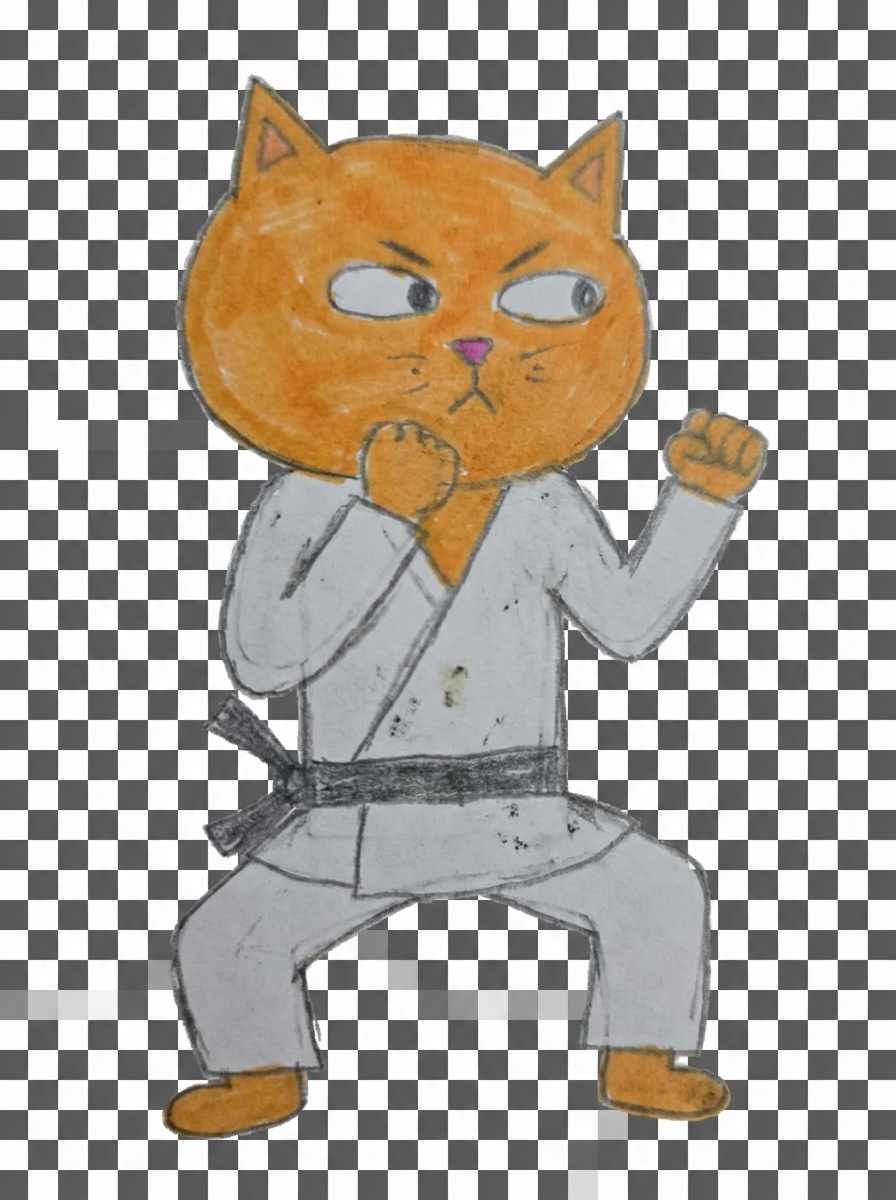
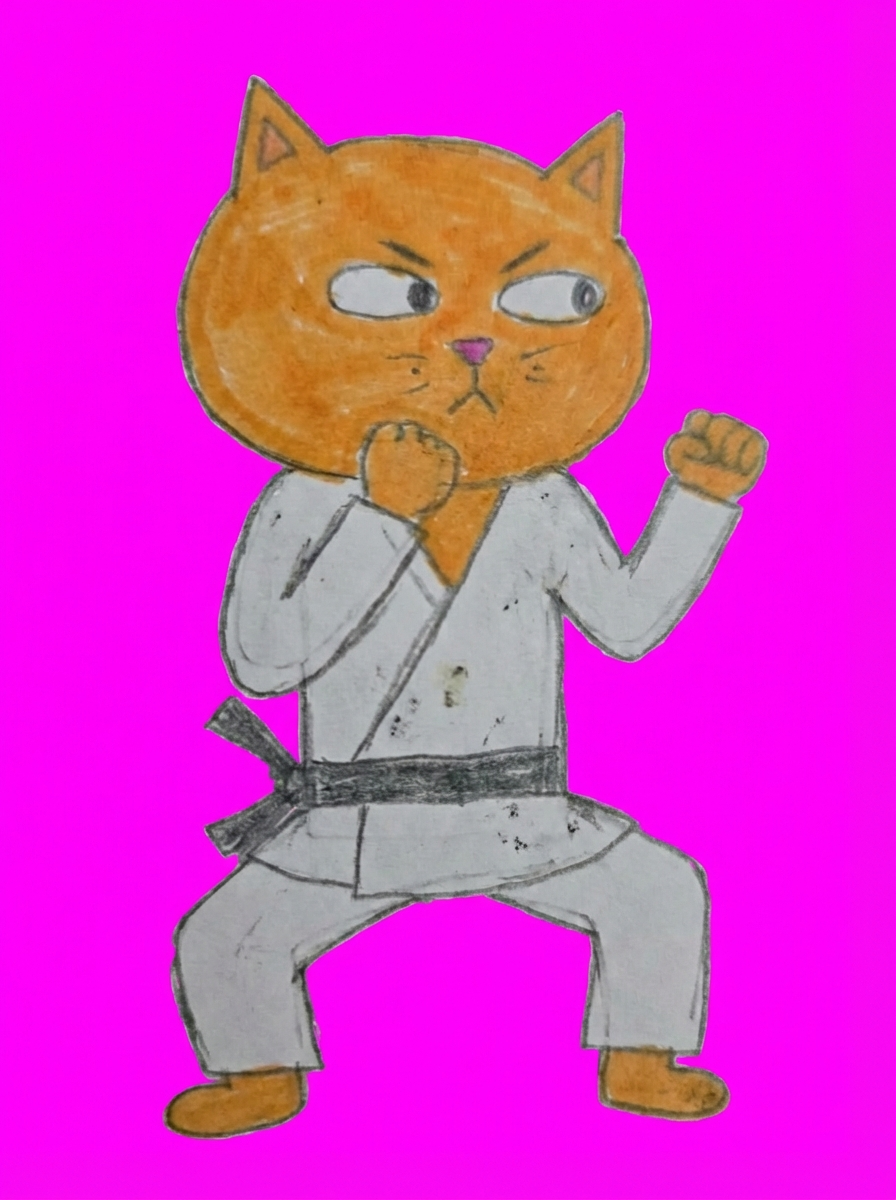
Rename to Bebe Kiosque VS Sicou, bigger characters, magenta bg prompts
- Rename game title and player names (BB. Kiosque, Sicou)
- Switch asset prompts from green to magenta (#FF00FF) background
- Add green2alpha.py script for chroma key background removal
- Increase character size to 180x300 and adjust ground position
- Add player1 sprites (idle, walk, punch) and their transparent versions

diff --git a/index.html b/index.html
@@ -3,7 +3,7 @@
 <head>
 <meta charset="UTF-8">
 <meta name="viewport" content="width=device-width, initial-scale=1.0">
-<title>Street Fighter</title>
+<title>Bebe Kiosque VS Sicou</title>
 <style>
   * { margin: 0; padding: 0; box-sizing: border-box; }
   body { background: #000; display: flex; justify-content: center; align-items: center; height: 100vh; overflow: hidden; }
@@ -18,7 +18,7 @@
 // ============================================================
 const CONFIG = {
   MOVE_SPEED: 5,
-  GROUND_Y: 500,
+  GROUND_Y: 400,
   STAGE_LEFT: 40,
   STAGE_RIGHT: 1240,
   PUSH_BACK: 8,
@@ -546,8 +546,8 @@ function createFighter(playerNum, startX, facingRight) {
     playerNum,
     x: startX,
     y: CONFIG.GROUND_Y,
-    width: 120,
-    height: 200,
+    width: 180,
+    height: 300,
     facingRight,
     vy: 0,
     groundY: CONFIG.GROUND_Y,
@@ -1141,9 +1141,9 @@ function drawHUD() {
   ctx.fillStyle = '#fff';
   ctx.font = 'bold 18px monospace';
   ctx.textAlign = 'left';
-  ctx.fillText('PLAYER 1', BAR_MARGIN, BAR_Y - 8);
+  ctx.fillText('BB. KIOSQUE', BAR_MARGIN, BAR_Y - 8);
   ctx.textAlign = 'right';
-  ctx.fillText('PLAYER 2', W - BAR_MARGIN, BAR_Y - 8);
+  ctx.fillText('SICOU', W - BAR_MARGIN, BAR_Y - 8);
 
   // Health bars
   drawHealthBar(BAR_MARGIN, BAR_Y, BAR_W, BAR_H, p1.health, p1.maxHealth, '#e74c3c', false);
@@ -1214,17 +1214,17 @@ function checkRoundEnd() {
     resultText = 'DOUBLE KO';
     winner = 'draw';
   } else if (p1.health <= 0) {
-    resultText = 'PLAYER 2 WINS';
+    resultText = 'SICOU WINS';
     winner = 'p2';
   } else if (p2.health <= 0) {
-    resultText = 'PLAYER 1 WINS';
+    resultText = 'BB. KIOSQUE WINS';
     winner = 'p1';
   } else if (roundTimer <= 0) {
     if (p1.health > p2.health) {
-      resultText = 'TIME — PLAYER 1 WINS';
+      resultText = 'TIME — BB. KIOSQUE WINS';
       winner = 'p1';
     } else if (p2.health > p1.health) {
-      resultText = 'TIME — PLAYER 2 WINS';
+      resultText = 'TIME — SICOU WINS';
       winner = 'p2';
     } else {
       resultText = 'TIME — DRAW';
@@ -1255,7 +1255,7 @@ function startNextRound() {
   if (p1Wins >= CONFIG.ROUNDS_TO_WIN || p2Wins >= CONFIG.ROUNDS_TO_WIN) {
     stopBGM();
     gameState = 'matchEnd';
-    resultText = p1Wins >= CONFIG.ROUNDS_TO_WIN ? 'PLAYER 1 WINS THE MATCH!' : 'PLAYER 2 WINS THE MATCH!';
+    resultText = p1Wins >= CONFIG.ROUNDS_TO_WIN ? 'BB. KIOSQUE WINS THE MATCH!' : 'SICOU WINS THE MATCH!';
     resultTimer = 0;
   } else {
     startNewRound();
@@ -1273,7 +1273,7 @@ function drawTitleScreen() {
   ctx.fillStyle = '#e74c3c';
   ctx.font = 'bold 72px monospace';
   ctx.textAlign = 'center';
-  ctx.fillText('STREET FIGHTER', W / 2, 200);
+  ctx.fillText('BEBE KIOSQUE VS SICOU', W / 2, 200);
 
   // Subtitle
   ctx.fillStyle = '#f1c40f';
@@ -1293,7 +1293,7 @@ function drawTitleScreen() {
   const lh = 28;
 
   ctx.fillStyle = '#e74c3c';
-  ctx.fillText('PLAYER 1', col1, controlsY + 40);
+  ctx.fillText('BB. KIOSQUE', col1, controlsY + 40);
   ctx.fillStyle = '#ccc';
   ctx.fillText('A / D       Move', col1, controlsY + 40 + lh);
   ctx.fillText('W           Jump', col1, controlsY + 40 + lh * 2);
@@ -1303,7 +1303,7 @@ function drawTitleScreen() {
   ctx.fillText('S           Block', col1, controlsY + 40 + lh * 6);
 
   ctx.fillStyle = '#3498db';
-  ctx.fillText('PLAYER 2', col2, controlsY + 40);
+  ctx.fillText('SICOU', col2, controlsY + 40);
   ctx.fillStyle = '#ccc';
   ctx.fillText('← / →       Move', col2, controlsY + 40 + lh);
   ctx.fillText('↑            Jump', col2, controlsY + 40 + lh * 2);

diff --git a/green2alpha.py b/green2alpha.py
@@ -1,0 +1,67 @@
+#!/usr/bin/env python3
+"""Convert green-screen PNGs to transparent PNGs.
+
+Usage: python green2alpha.py <folder> [--suffix _trans] [--tolerance 80]
+"""
+
+import argparse
+import os
+import sys
+from pathlib import Path
+
+try:
+    from PIL import Image
+except ImportError:
+    print("Pillow is required: pip install Pillow")
+    sys.exit(1)
+
+
+def remove_green(img_path, out_path, tolerance):
+    img = Image.open(img_path).convert("RGBA")
+    pixels = img.load()
+    w, h = img.size
+
+    # Sample top-left corner to detect the actual background color
+    bg_r, bg_g, bg_b, _ = pixels[0, 0]
+    print(f"  Detected background color: ({bg_r}, {bg_g}, {bg_b})")
+
+    for y in range(h):
+        for x in range(w):
+            r, g, b, a = pixels[x, y]
+            if (abs(r - bg_r) < tolerance and
+                abs(g - bg_g) < tolerance and
+                abs(b - bg_b) < tolerance):
+                pixels[x, y] = (0, 0, 0, 0)
+
+    img.save(out_path, "PNG")
+
+
+def main():
+    parser = argparse.ArgumentParser(description="Convert green-screen PNGs to transparent PNGs.")
+    parser.add_argument("folder", help="Folder containing PNG files (searched recursively)")
+    parser.add_argument("--suffix", default="_trans", help="Suffix added before .png (default: _trans)")
+    parser.add_argument("--tolerance", type=int, default=80, help="Color tolerance 0-255 (default: 80)")
+    args = parser.parse_args()
+
+    folder = Path(args.folder)
+    if not folder.is_dir():
+        print(f"Error: {folder} is not a directory")
+        sys.exit(1)
+
+    pngs = list(folder.rglob("*.png"))
+    if not pngs:
+        print(f"No PNG files found in {folder}")
+        sys.exit(1)
+
+    for p in pngs:
+        if args.suffix in p.stem:
+            continue
+        out = p.with_stem(p.stem + args.suffix)
+        print(f"{p} -> {out}")
+        remove_green(p, out, args.tolerance)
+
+    print(f"Done. Processed {len(pngs)} files.")
+
+
+if __name__ == "__main__":
+    main()

diff --git a/asset-prompts.md b/asset-prompts.md
@@ -1,7 +1,9 @@
 # Asset Prompts for Nano Banana
 
-All sprites should be PNG with transparent background unless noted.
+All sprites should be PNG with a background with a pure plain magenta (#FF00FF).
 Keep the child's pencil-drawn style from the base image, but make the pose more aggressive and exaggerated — while staying goofy and funny.
+
+**Important**: Player 1 stands on the left side of the screen and faces to the right. Player 2 stands on the right side of the screen and faces to the left. All sprite prompts reflect this orientation.
 
 ---
 
@@ -14,77 +16,77 @@ Keep the child's pencil-drawn style from the base image, but make the pose more 
 
 ## Player 1 Sprites (120x200 each)
 
-Base: use the Player 1 child drawing as reference. Keep the wobbly pencil lines, crayon coloring, and goofy proportions. Make each pose more aggressive but still hilarious.
+Base: use the Player 1 child drawing as reference. Keep the wobbly pencil lines, crayon coloring, and goofy proportions. Make each pose more aggressive but still hilarious. Player 1 faces to the right.
 
 **`assets/player1/idle.png`**
-> The character standing in a fighting-ready stance, fists loosely raised, knees slightly bent. Wobbly pencil-drawn style like a kid's sketchbook. Exaggerated big head, tiny determined eyes. Looks tough but adorable. Transparent background, 120x200px.
+> A whimsical character depicted in a fighting-ready stance, with fists loosely raised and knees slightly bent. The character has an exaggeratedly large head and tiny, determined eyes that convey a blend of toughness and adorability. The style resembles a wobbly pencil drawing, reminiscent of a child's sketchbook, showcasing playful imperfections. The character gazes to the right, ready to face their opponent. The background is a pure plain magenta (#FF00FF), and the overall image dimensions are 120x200px.
 
 **`assets/player1/walk.png`**
-> The character mid-stride, one leg forward, arms swinging. Pencil-drawn kid style. Comically wide step like they're stomping toward the opponent. Angry little eyebrows but a silly expression. Transparent background, 120x200px.
+> A whimsical character depicted mid-stride, one leg forward and arms swinging, taking a comically wide step as if stomping toward the opponent. The character has an exaggeratedly large head with angry little eyebrows but a silly expression. The style resembles a wobbly pencil drawing, reminiscent of a child's sketchbook, showcasing playful imperfections. The character faces to the right, marching forward with determination. The background is a pure plain magenta (#FF00FF), and the overall image dimensions are 120x200px.
 
 **`assets/player1/punch.png`**
-> The character throwing a big exaggerated punch forward with their right arm fully extended. Pencil-drawn kid style. The fist is comically oversized. Face scrunched up with effort. Motion lines around the fist. Transparent background, 120x200px.
+> A whimsical character depicted throwing a big exaggerated punch forward with their right arm fully extended to the right. The fist is comically oversized, with the face scrunched up with effort and motion lines around the fist. The style resembles a wobbly pencil drawing, reminiscent of a child's sketchbook, showcasing playful imperfections. The character faces to the right, punching toward their opponent. The background is a pure plain magenta (#FF00FF), and the overall image dimensions are 120x200px.
 
 **`assets/player1/close-punch.png`**
-> The character throwing a short sharp elbow strike, arm bent close to the body. Pencil-drawn kid style. Elbow pointy and exaggerated. Gritted teeth, one eye squinting. A close-range scrappy brawler look. Transparent background, 120x200px.
+> A whimsical character depicted throwing a short sharp elbow strike, arm bent close to the body. The elbow is pointy and exaggerated, with gritted teeth and one eye squinting in a close-range scrappy brawler look. The style resembles a wobbly pencil drawing, reminiscent of a child's sketchbook, showcasing playful imperfections. The character faces to the right, striking toward their opponent. The background is a pure plain magenta (#FF00FF), and the overall image dimensions are 120x200px.
 
 **`assets/player1/kick.png`**
-> The character doing a big side kick, one leg extended high. Pencil-drawn kid style. The kicking foot is comically huge. The character is leaning back for balance with a wild grin. Motion lines around the foot. Transparent background, 120x200px.
+> A whimsical character depicted doing a big side kick, one leg extended high to the right. The kicking foot is comically huge, and the character is leaning back for balance with a wild grin. Motion lines surround the foot. The style resembles a wobbly pencil drawing, reminiscent of a child's sketchbook, showcasing playful imperfections. The character faces to the right, kicking toward their opponent. The background is a pure plain magenta (#FF00FF), and the overall image dimensions are 120x200px.
 
 **`assets/player1/fireball-pose.png`**
-> The character with both hands pushed forward, palms out, launching energy. Pencil-drawn kid style. Intense wobbly concentration face. Little sweat drops flying off. Arms stretched forward dramatically. Transparent background, 120x200px.
+> A whimsical character depicted with both hands pushed forward to the right, palms out, launching energy. The face shows intense wobbly concentration with little sweat drops flying off and arms stretched forward dramatically. The style resembles a wobbly pencil drawing, reminiscent of a child's sketchbook, showcasing playful imperfections. The character faces to the right, channeling power toward their opponent. The background is a pure plain magenta (#FF00FF), and the overall image dimensions are 120x200px.
 
 **`assets/player1/hit.png`**
-> The character recoiling from getting hit, head snapped back, body leaning away. Pencil-drawn kid style. Eyes popping out comically, mouth wide open in surprise. Little stars or spirals around the head. Transparent background, 120x200px.
+> A whimsical character depicted recoiling from getting hit, head snapped back to the left, body leaning away. Eyes are popping out comically, mouth wide open in surprise, with little stars or spirals around the head. The style resembles a wobbly pencil drawing, reminiscent of a child's sketchbook, showcasing playful imperfections. The character faces to the right but is knocked backward by the impact. The background is a pure plain magenta (#FF00FF), and the overall image dimensions are 120x200px.
 
 **`assets/player1/block.png`**
-> The character in a defensive stance, both arms crossed in front of their face. Pencil-drawn kid style. Peeking over their arms with one nervous eye. Knees bent, bracing for impact. Transparent background, 120x200px.
+> A whimsical character depicted in a defensive stance, both arms crossed in front of their face, peeking over their arms with one nervous eye. Knees bent, bracing for impact. The style resembles a wobbly pencil drawing, reminiscent of a child's sketchbook, showcasing playful imperfections. The character faces to the right, shielding against their opponent's attack. The background is a pure plain magenta (#FF00FF), and the overall image dimensions are 120x200px.
 
 **`assets/player1/victory.png`**
-> The character celebrating with both arms raised high in the air. Pencil-drawn kid style. Huge open-mouth grin, eyes closed with joy. Maybe a little victory crown or stars doodled around them. Transparent background, 120x200px.
+> A whimsical character depicted celebrating with both arms raised high in the air, with a huge open-mouth grin and eyes closed with joy. A little victory crown or stars are doodled around them. The style resembles a wobbly pencil drawing, reminiscent of a child's sketchbook, showcasing playful imperfections. The character faces to the right, triumphant after defeating their opponent. The background is a pure plain magenta (#FF00FF), and the overall image dimensions are 120x200px.
 
 ---
 
 ## Player 2 Sprites (120x200 each)
 
-Base: use the Player 2 child drawing as reference. Same wobbly pencil-drawn style but this character should feel visually distinct from Player 1 — different outfit scribbles, different hair, different vibe. Still aggressive yet funny.
+Base: use the Player 2 child drawing as reference. Same wobbly pencil-drawn style but this character should feel visually distinct from Player 1 — different outfit scribbles, different hair, different vibe. Still aggressive yet funny. Player 2 faces to the left.
 
 **`assets/player2/idle.png`**
-> The character standing in a fighting-ready stance, fists loosely raised, knees slightly bent. Wobbly pencil-drawn style like a kid's sketchbook. Different look from Player 1 — maybe spikier hair or a scribbled headband. Looks mean but goofy. Transparent background, 120x200px.
+> A whimsical character depicted in a fighting-ready stance, with fists loosely raised and knees slightly bent. The character has an exaggeratedly large head and tiny, determined eyes that convey a blend of toughness and adorability, visually distinct from Player 1 — maybe spikier hair or a scribbled headband. The style resembles a wobbly pencil drawing, reminiscent of a child's sketchbook, showcasing playful imperfections. The character gazes to the left, ready to face their opponent. The background is a pure plain magenta (#FF00FF), and the overall image dimensions are 120x200px.
 
 **`assets/player2/walk.png`**
-> The character mid-stride, one leg forward, arms swinging. Pencil-drawn kid style. Stomping forward with attitude. Smug little smirk on the face. Transparent background, 120x200px.
+> A whimsical character depicted mid-stride, one leg forward and arms swinging, stomping forward with attitude and a smug little smirk. Visually distinct from Player 1. The style resembles a wobbly pencil drawing, reminiscent of a child's sketchbook, showcasing playful imperfections. The character faces to the left, marching toward their opponent. The background is a pure plain magenta (#FF00FF), and the overall image dimensions are 120x200px.
 
 **`assets/player2/punch.png`**
-> The character throwing a big exaggerated punch forward with their right arm fully extended. Pencil-drawn kid style. Oversized fist with knuckle details. Tongue sticking out with effort. Motion lines around the fist. Transparent background, 120x200px.
+> A whimsical character depicted throwing a big exaggerated punch forward with their left arm fully extended to the left. The fist is comically oversized with knuckle details, tongue sticking out with effort, and motion lines around the fist. Visually distinct from Player 1. The style resembles a wobbly pencil drawing, reminiscent of a child's sketchbook, showcasing playful imperfections. The character faces to the left, punching toward their opponent. The background is a pure plain magenta (#FF00FF), and the overall image dimensions are 120x200px.
 
 **`assets/player2/close-punch.png`**
-> The character throwing a short sharp elbow strike, arm bent close to the body. Pencil-drawn kid style. Sneaky scrappy look, like a dirty fighter. One eyebrow raised. Elbow exaggerated and pointy. Transparent background, 120x200px.
+> A whimsical character depicted throwing a short sharp elbow strike, arm bent close to the body, with a sneaky scrappy look like a dirty fighter and one eyebrow raised. The elbow is exaggerated and pointy. Visually distinct from Player 1. The style resembles a wobbly pencil drawing, reminiscent of a child's sketchbook, showcasing playful imperfections. The character faces to the left, striking toward their opponent. The background is a pure plain magenta (#FF00FF), and the overall image dimensions are 120x200px.
 
 **`assets/player2/kick.png`**
-> The character doing a big roundhouse kick, one leg sweeping high. Pencil-drawn kid style. Comically huge foot. Wild eyes and a battle cry mouth. The whole body is twisting into the kick. Transparent background, 120x200px.
+> A whimsical character depicted doing a big roundhouse kick, one leg sweeping high to the left. The foot is comically huge, with wild eyes and a battle cry mouth, the whole body twisting into the kick. Visually distinct from Player 1. The style resembles a wobbly pencil drawing, reminiscent of a child's sketchbook, showcasing playful imperfections. The character faces to the left, kicking toward their opponent. The background is a pure plain magenta (#FF00FF), and the overall image dimensions are 120x200px.
 
 **`assets/player2/fireball-pose.png`**
-> The character with both hands pushed forward, palms out, launching energy. Pencil-drawn kid style. Evil grin while firing. Little crayon lightning bolts around the hands. Dramatic lean forward. Transparent background, 120x200px.
+> A whimsical character depicted with both hands pushed forward to the left, palms out, launching energy with an evil grin. Little crayon lightning bolts crackle around the hands, with a dramatic lean forward. Visually distinct from Player 1. The style resembles a wobbly pencil drawing, reminiscent of a child's sketchbook, showcasing playful imperfections. The character faces to the left, channeling power toward their opponent. The background is a pure plain magenta (#FF00FF), and the overall image dimensions are 120x200px.
 
 **`assets/player2/hit.png`**
-> The character recoiling from getting hit, head snapped back, body leaning away. Pencil-drawn kid style. Tongue flying out, eyes crossed comically. Wobbly motion lines showing the impact. Transparent background, 120x200px.
+> A whimsical character depicted recoiling from getting hit, head snapped back to the right, body leaning away. Tongue flying out, eyes crossed comically, with wobbly motion lines showing the impact. Visually distinct from Player 1. The style resembles a wobbly pencil drawing, reminiscent of a child's sketchbook, showcasing playful imperfections. The character faces to the left but is knocked backward by the impact. The background is a pure plain magenta (#FF00FF), and the overall image dimensions are 120x200px.
 
 **`assets/player2/block.png`**
-> The character in a defensive stance, both arms crossed in front of their face. Pencil-drawn kid style. Grumpy expression peeking over the arms. Feet planted wide. Transparent background, 120x200px.
+> A whimsical character depicted in a defensive stance, both arms crossed in front of their face, with a grumpy expression peeking over the arms and feet planted wide. Visually distinct from Player 1. The style resembles a wobbly pencil drawing, reminiscent of a child's sketchbook, showcasing playful imperfections. The character faces to the left, shielding against their opponent's attack. The background is a pure plain magenta (#FF00FF), and the overall image dimensions are 120x200px.
 
 **`assets/player2/victory.png`**
-> The character celebrating with both arms raised, flexing muscles. Pencil-drawn kid style. Cocky grin, maybe standing on one foot in a silly pose. Scribbled confetti or doodle stars around them. Transparent background, 120x200px.
+> A whimsical character depicted celebrating with both arms raised, flexing muscles, with a cocky grin, maybe standing on one foot in a silly pose. Scribbled confetti or doodle stars surround them. Visually distinct from Player 1. The style resembles a wobbly pencil drawing, reminiscent of a child's sketchbook, showcasing playful imperfections. The character faces to the left, triumphant after defeating their opponent. The background is a pure plain magenta (#FF00FF), and the overall image dimensions are 120x200px.
 
 ---
 
 ## FX Sprites
 
 **`assets/fx/fireball-p1.png`** (60x30)
-> A wobbly hand-drawn energy ball, like a kid drew a fireball with orange and yellow crayons. Messy circular shape with scribbly flame trails. Glowing center. Pencil-drawn style matching the characters. Transparent background, 60x30px.
+> A wobbly hand-drawn energy ball, like a kid drew a fireball with orange and yellow crayons. Messy circular shape with scribbly flame trails. Glowing center. Pencil-drawn style matching the characters. Pure plain magenta (#FF00FF) background, 60x30px.
 
 **`assets/fx/fireball-p2.png`** (60x30)
-> A wobbly hand-drawn energy ball, like a kid drew a fireball with blue and cyan crayons. Messy circular shape with scribbly electric trails. Glowing center. Pencil-drawn style matching the characters. Transparent background, 60x30px.
+> A wobbly hand-drawn energy ball, like a kid drew a fireball with blue and cyan crayons. Messy circular shape with scribbly electric trails. Glowing center. Pencil-drawn style matching the characters. Pure plain magenta (#FF00FF) background, 60x30px.
 
 **`assets/fx/hit-spark.png`** (60x60)
-> A comic-book style impact burst drawn in wobbly pencil kid style. Jagged star shape with "POW" or "BAM" scribbled inside. Yellow and white crayon colors. Transparent background, 60x60px.
+> A comic-book style impact burst drawn in wobbly pencil kid style. Jagged star shape with "POW" or "BAM" scribbled inside. Yellow and white crayon colors. Pure plain magenta (#FF00FF) background, 60x60px.
